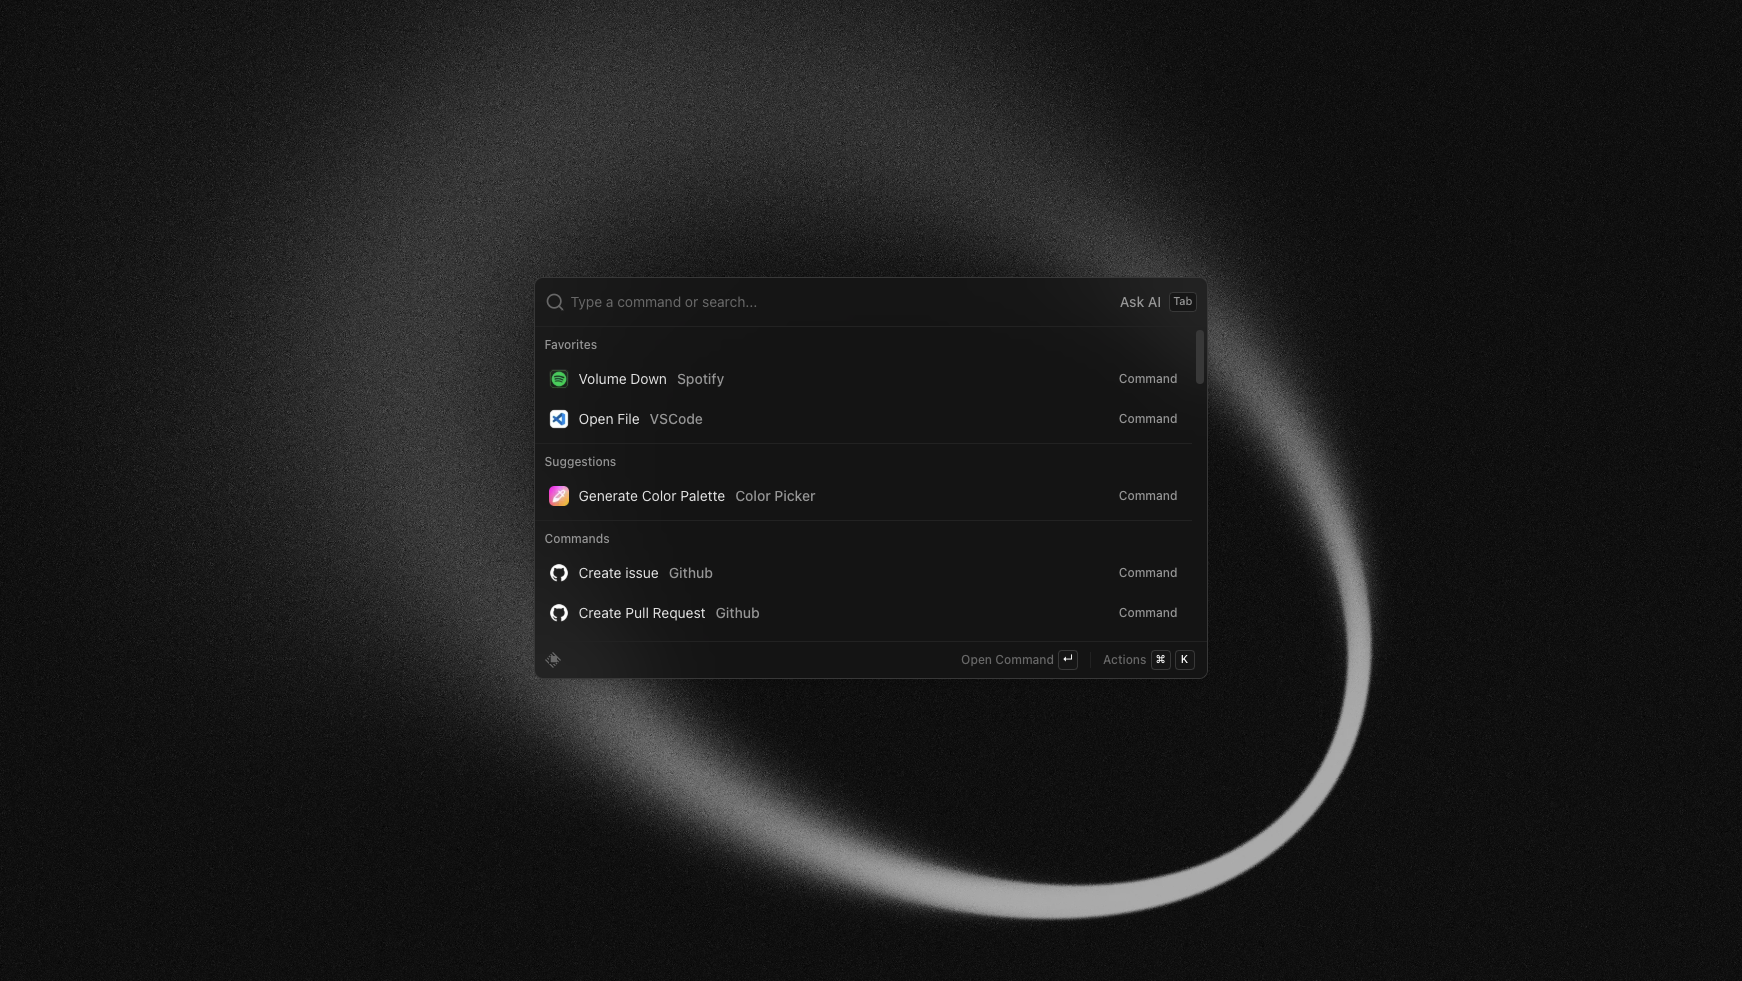
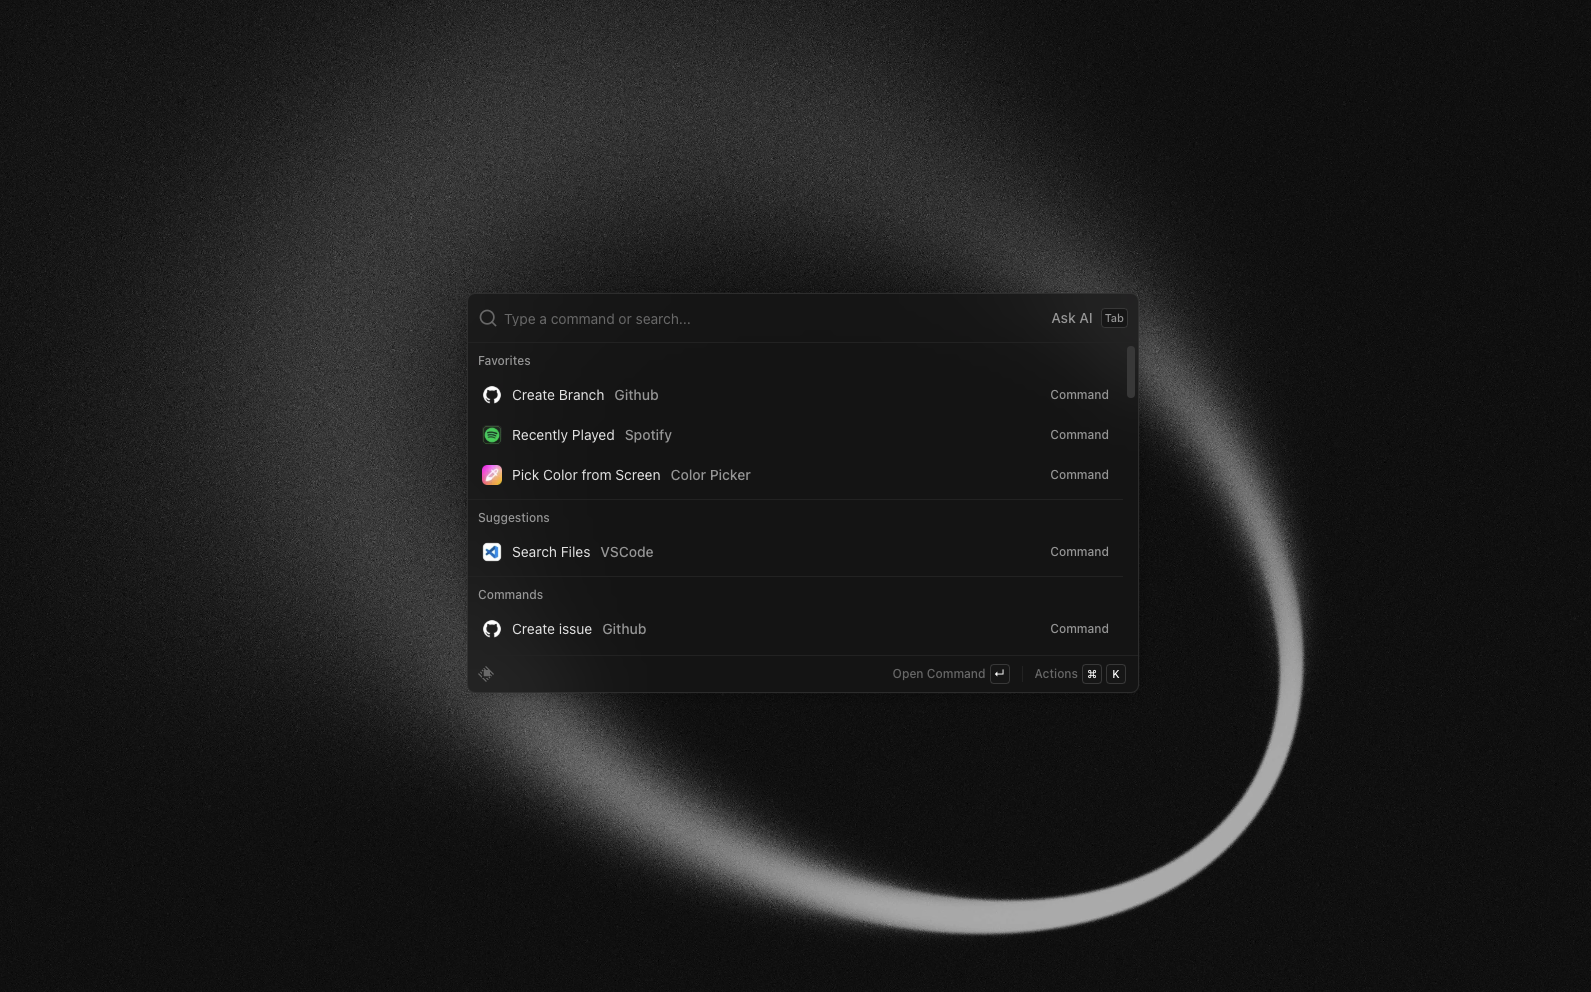
up

diff --git a/app/app.vue b/app/app.vue
@@ -1,6 +1,18 @@
 <script setup lang="ts">
 import { Toaster } from 'vue-sonner'
 import 'vue-sonner/style.css'
+
+useSeoMeta({
+  title: 'Raycast Nuxt UI Clone',
+  description: 'A Raycast command palette clone built with Nuxt UI to demonstrate component customization capabilities',
+  ogTitle: 'Raycast Nuxt UI Clone',
+  ogDescription: 'A Raycast command palette clone built with Nuxt UI to demonstrate component customization capabilities',
+  ogImage: '/og.png',
+  twitterCard: 'summary_large_image',
+  twitterTitle: 'Raycast Nuxt UI Clone',
+  twitterDescription: 'A Raycast command palette clone built with Nuxt UI to demonstrate component customization capabilities',
+  twitterImage: '/og.png'
+})
 </script>
 
 <template>

diff --git a/app/composables/useExtensions.ts b/app/composables/useExtensions.ts
@@ -23,7 +23,7 @@ export const useExtensions = () => {
 
   const getFavorites = (): Command[] => {
     const allCommands = getAllCommands()
-    const favoriteLabels = ['Recently Played', 'Create Branch']
+    const favoriteLabels = ['Recently Played', 'Create Branch', 'Pick Color from Screen']
     
     return allCommands.filter(cmd => 
       favoriteLabels.includes(cmd.label)
